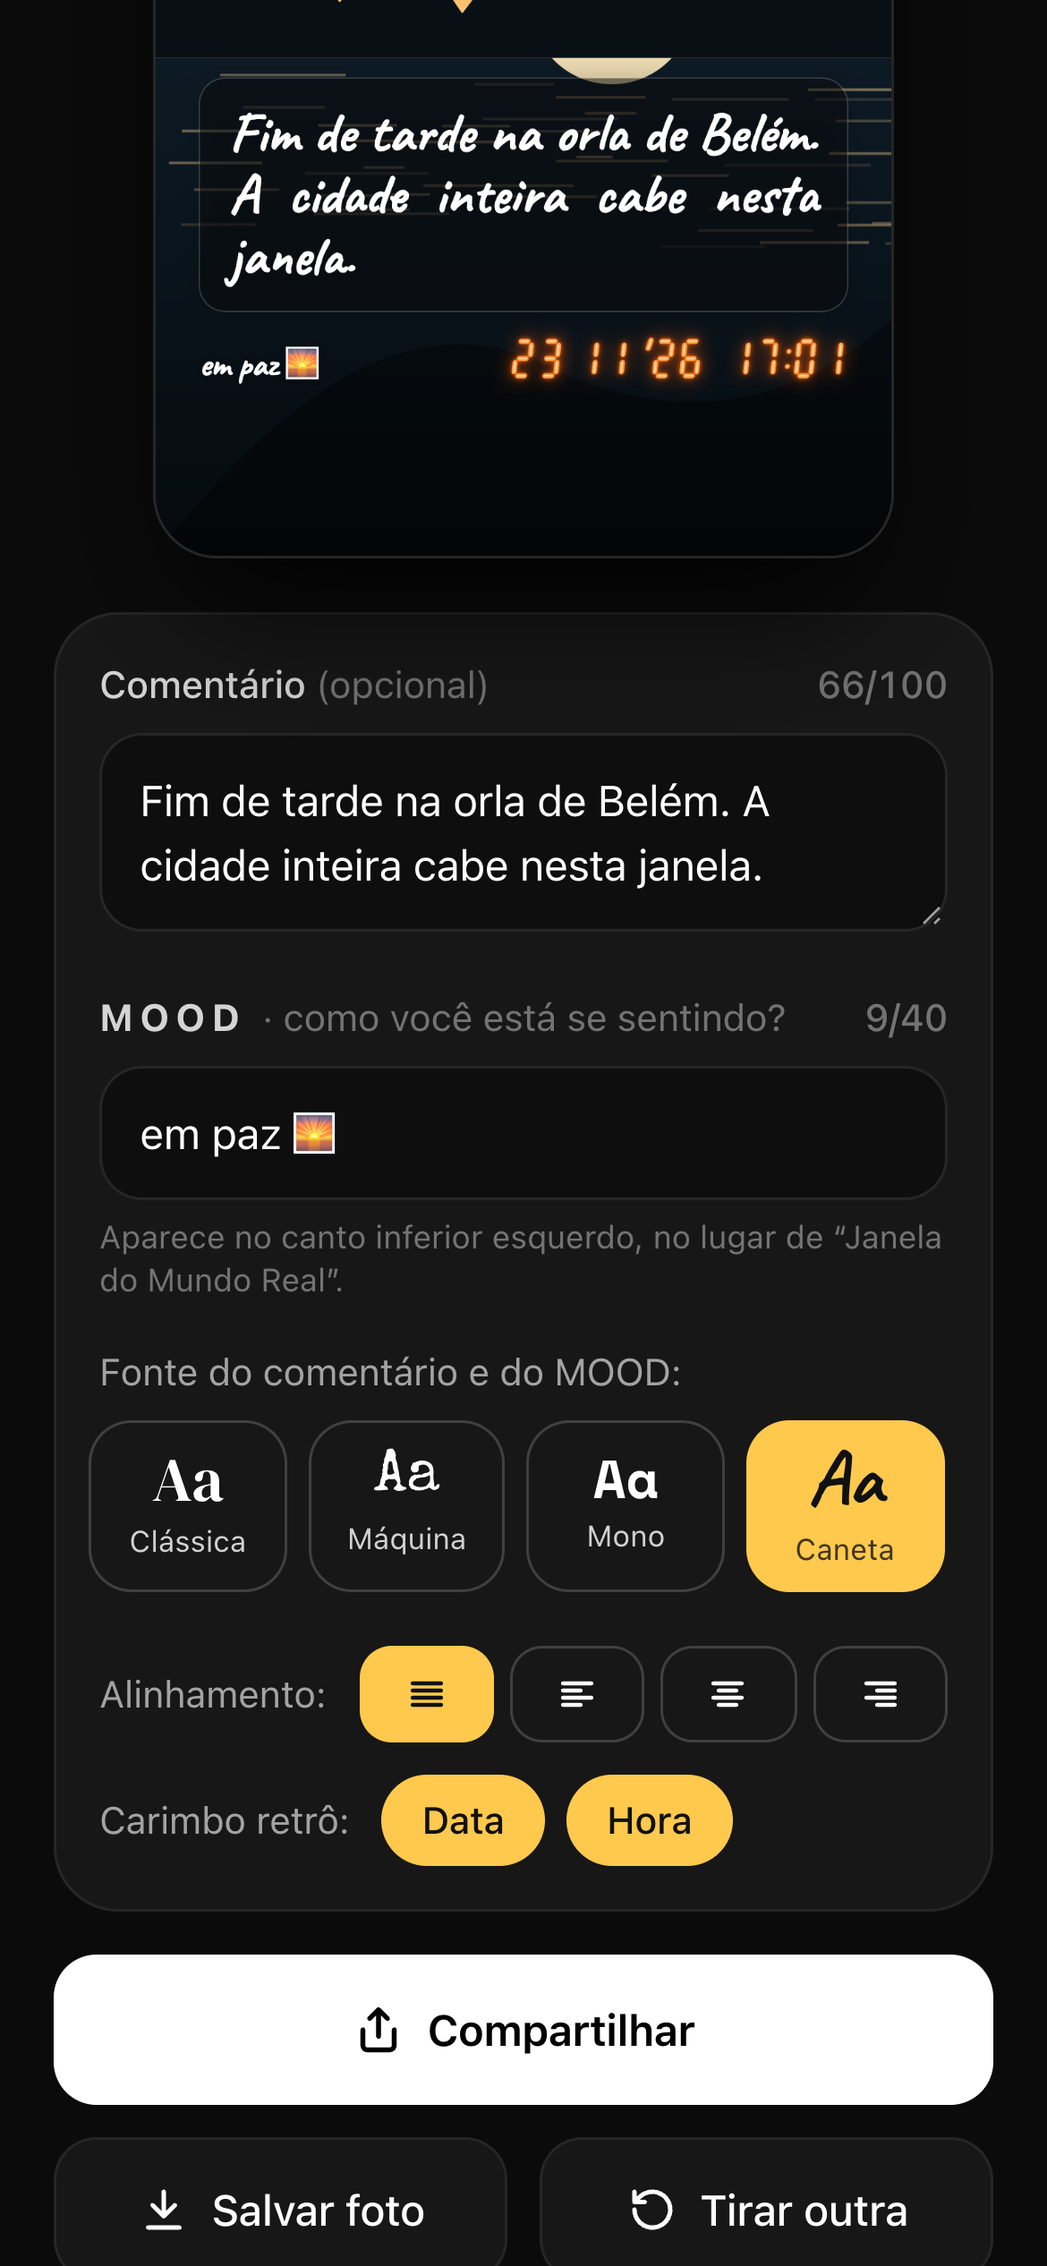
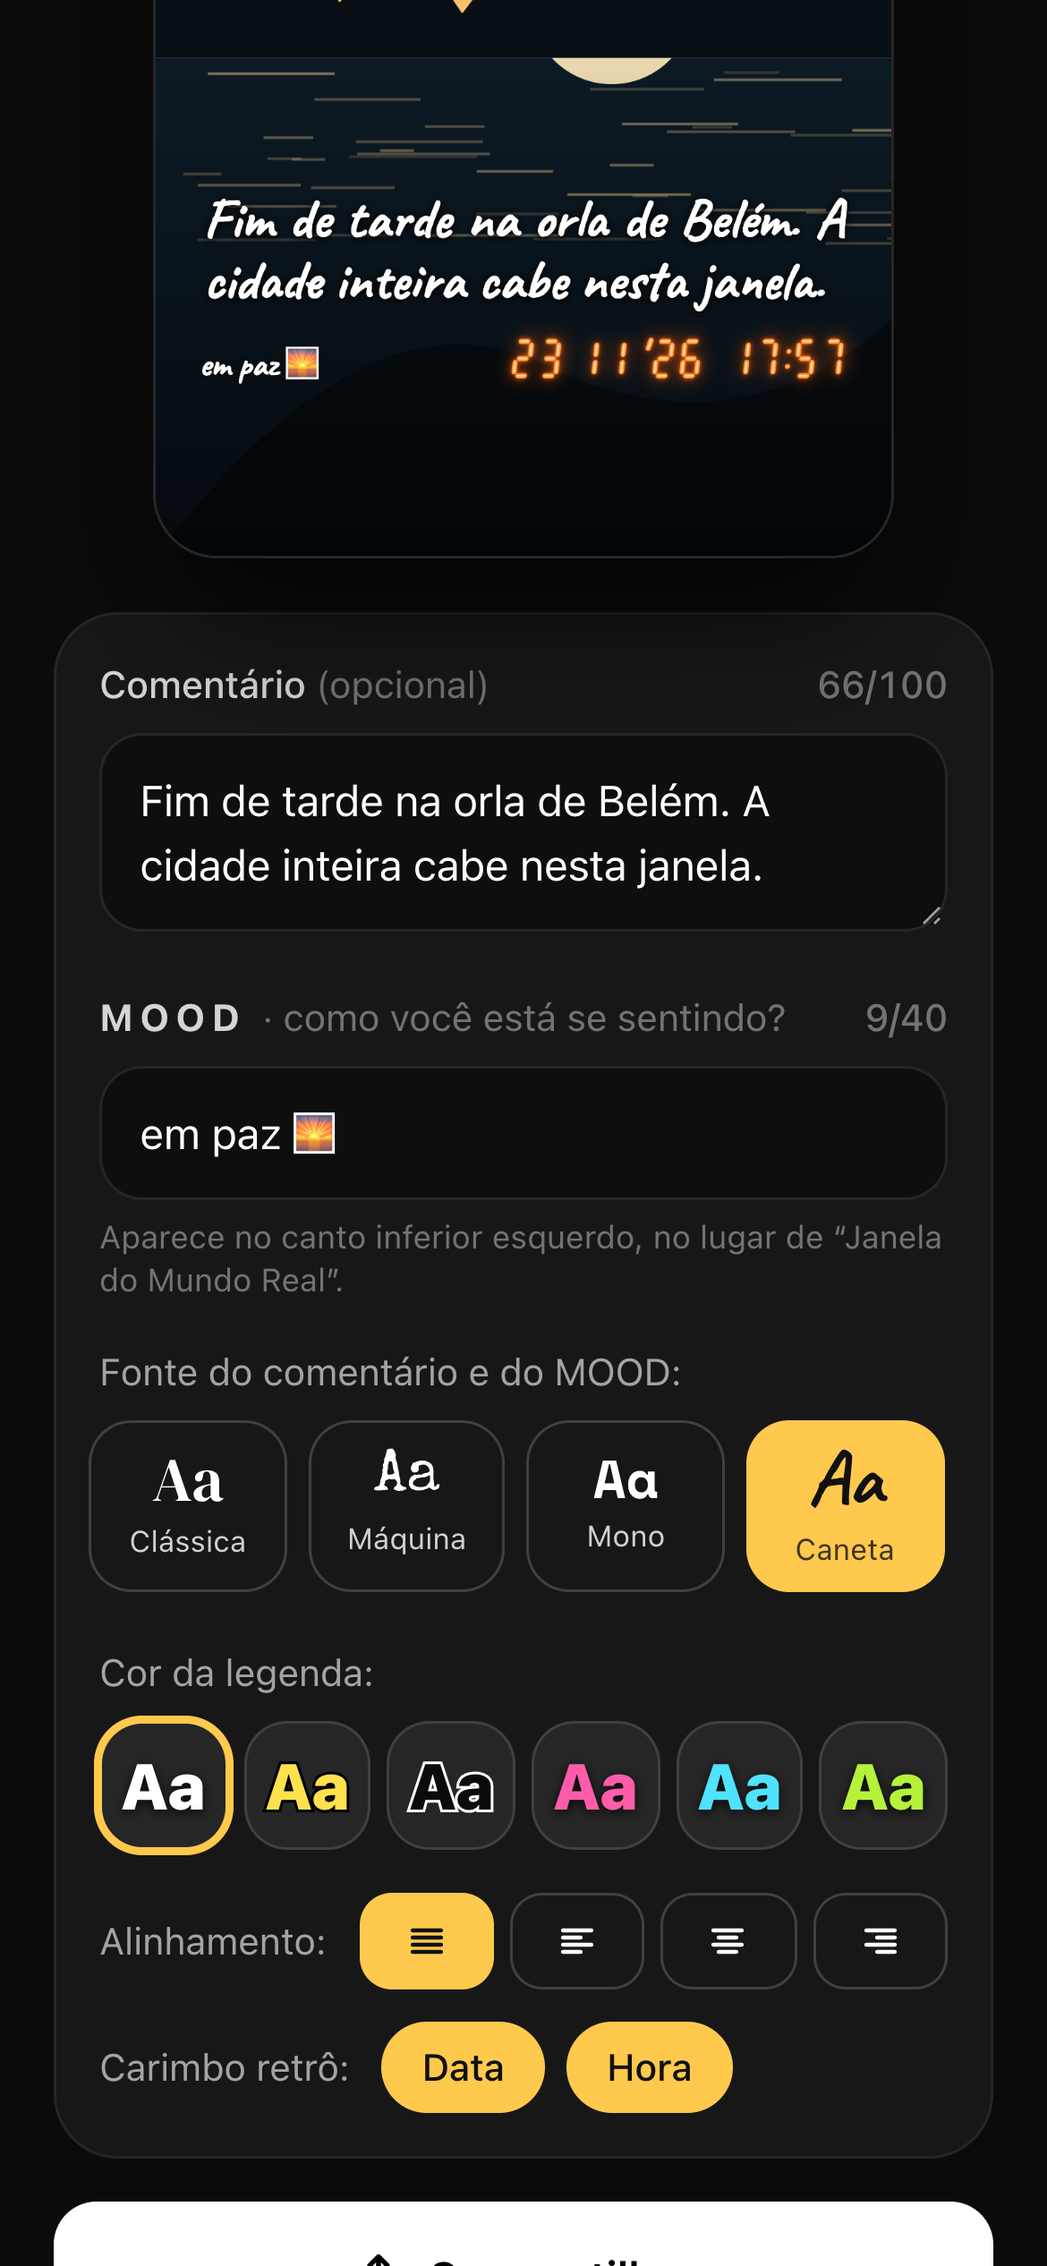
OKENA 1.5.0: legenda sem caixa em 6 cores e permissão da câmera única
- Legenda solta sobre a foto, 6 cores (inclui amarelo com borda preta)
- Troca de câmera abre a nova antes de parar a anterior (sem novo pedido
  de permissão no Safari); aviso só no primeiro uso ou após limpar dados
- Prints e documentação atualizados

Changed region(s): [[0.0308, 0.7176, 0.9538, 0.936], [0.1846, 0.0312, 0.8615, 0.156], [0.0308, 0.9672, 0.9538, 1.0]]

diff --git a/index.html b/index.html
@@ -80,6 +80,7 @@
     .shutter { box-shadow: 0 0 0 6px rgba(255,255,255,.25); }
     .shutter:active { transform: scale(.94); }
     .chip[aria-pressed="true"] { background: var(--amber); color: #111; border-color: var(--amber); }
+    .color-btn[aria-pressed="true"] { border-color: var(--amber); box-shadow: 0 0 0 2px var(--amber); }
     .mode-btn { color: rgba(255,255,255,.75); }
     .mode-btn[aria-pressed="true"] { background: #fff; color: #111; }
     #shutterDot { width: 3.6rem; height: 3.6rem; border-radius: 999px; }
@@ -179,7 +180,7 @@
         <img src="assets/logo-mark.svg" alt="" class="absolute left-3 top-3.5 h-5 w-5">
         <div class="absolute right-2.5 top-3.5 w-12 aspect-[3/4] rounded-lg border border-white/90 shadow-lg" style="background: linear-gradient(160deg,#c48b6a,#6b4a3a);"></div>
         <p id="mockHandle" class="absolute right-2.5 top-[5.6rem] max-w-[9rem] truncate text-right text-[8px] font-semibold"></p>
-        <div class="absolute left-3 right-3 bottom-12 rounded-lg bg-black/40 border border-white/10 p-1.5 text-[7px] leading-tight text-justify">Uma janela para o agora: o que eu vejo e quem está vendo.</div>
+        <div class="absolute left-3 right-3 bottom-12 text-[8px] font-bold leading-tight text-justify" style="color:#FFE14D;-webkit-text-stroke:.6px #000;paint-order:stroke fill">Uma janela para o agora: o que eu vejo e quem está vendo.</div>
         <p class="absolute right-3 bottom-5 retro text-[9px]">23 11 '26 14:32</p>
       </div>
 
@@ -317,6 +318,15 @@
         <p class="mt-1.5 text-xs text-neutral-500">Aparece no canto inferior esquerdo, no lugar de “Janela do Mundo Real”.</p>
         <p class="mt-4 text-sm text-neutral-400">Fonte do comentário e do MOOD:</p>
         <div id="fontPicker" class="mt-2 -mx-1 px-1 pb-1 flex gap-2 overflow-x-auto snap-x" role="group" aria-label="Fontes"></div>
+        <p class="mt-4 text-sm text-neutral-400">Cor da legenda:</p>
+        <div class="mt-2 grid grid-cols-6 gap-1.5" role="group" aria-label="Cor da legenda">
+          <button data-color="branco" class="color-btn grid place-items-center h-12 rounded-2xl border border-neutral-700 bg-neutral-800" aria-pressed="false" aria-label="Branco" title="Branco"><span class="text-2xl font-black leading-none" style="color:#FFFFFF;text-shadow:0 1px 4px rgba(0,0,0,.8);">Aa</span></button>
+          <button data-color="amarelo" class="color-btn grid place-items-center h-12 rounded-2xl border border-neutral-700 bg-neutral-800" aria-pressed="false" aria-label="Amarelo com borda preta" title="Amarelo com borda preta"><span class="text-2xl font-black leading-none" style="color:#FFE14D;-webkit-text-stroke:2px #000;paint-order:stroke fill;">Aa</span></button>
+          <button data-color="preto" class="color-btn grid place-items-center h-12 rounded-2xl border border-neutral-700 bg-neutral-800" aria-pressed="false" aria-label="Preto com borda branca" title="Preto com borda branca"><span class="text-2xl font-black leading-none" style="color:#0B0B0C;-webkit-text-stroke:2px #FFF;paint-order:stroke fill;">Aa</span></button>
+          <button data-color="rosa" class="color-btn grid place-items-center h-12 rounded-2xl border border-neutral-700 bg-neutral-800" aria-pressed="false" aria-label="Rosa" title="Rosa"><span class="text-2xl font-black leading-none" style="color:#FF5CAA;text-shadow:0 1px 4px rgba(0,0,0,.8);">Aa</span></button>
+          <button data-color="ciano" class="color-btn grid place-items-center h-12 rounded-2xl border border-neutral-700 bg-neutral-800" aria-pressed="false" aria-label="Ciano" title="Ciano"><span class="text-2xl font-black leading-none" style="color:#4FE3FF;text-shadow:0 1px 4px rgba(0,0,0,.8);">Aa</span></button>
+          <button data-color="verde" class="color-btn grid place-items-center h-12 rounded-2xl border border-neutral-700 bg-neutral-800" aria-pressed="false" aria-label="Verde-limão" title="Verde-limão"><span class="text-2xl font-black leading-none" style="color:#B6F23A;text-shadow:0 1px 4px rgba(0,0,0,.8);">Aa</span></button>
+        </div>
         <div class="mt-4 flex items-center gap-2">
           <span class="text-sm text-neutral-400 mr-1 shrink-0">Alinhamento:</span>
           <div class="grid grid-cols-4 gap-1.5 flex-1">
@@ -516,7 +526,7 @@
 (() => {
   'use strict';
 
-  const VERSION = '1.4.0';
+  const VERSION = '1.5.0';
   const KEY_PROFILE = 'okena:perfil';
   const KEY_PREFS = 'okena:prefs';
   const W = 1080, H = 1920, M = 64;           // canvas do Story e margem
@@ -542,6 +552,16 @@
     { id: 'feed',  name: 'Feed',  ratio: '4:5',  h: 1350, top: 64,  bottom: 72,  selfie: 300, commentMax: 260 }, // retrato do feed: 1080×1350
   ];
   const currentFormat = () => FORMATS.find((f) => f.id === state.prefs.format) || FORMATS[0];
+  /* 6 cores para a legenda (comentário) */
+  const COLORS = [
+    { id: 'branco',   name: 'Branco',                    fill: '#FFFFFF', stroke: '' },
+    { id: 'amarelo',  name: 'Amarelo com borda preta',   fill: '#FFE14D', stroke: '#000000' },
+    { id: 'preto',    name: 'Preto com borda branca',    fill: '#0B0B0C', stroke: '#FFFFFF' },
+    { id: 'rosa',     name: 'Rosa',                      fill: '#FF5CAA', stroke: '' },
+    { id: 'ciano',    name: 'Ciano',                     fill: '#4FE3FF', stroke: '' },
+    { id: 'verde',    name: 'Verde-limão',               fill: '#B6F23A', stroke: '' },
+  ];
+  const currentColor = () => COLORS.find((c) => c.id === state.prefs.color) || COLORS[0];
   const fontCSS = (f, px) => `${f.weight} ${Math.round(px)}px ${f.family}`;
   const currentFont = () => FONTS.find((f) => f.id === state.prefs.font) || FONTS[0];
   const loadedFonts = new Set(['padrao']);
@@ -559,7 +579,7 @@
   const vibrate = (p) => { try { navigator.vibrate && navigator.vibrate(p); } catch (_) {} };
 
   const state = {
-    screen: null, profile: null, prefs: { date: true, time: true, align: 'justify', font: 'padrao', format: 'story', mode: 'photo', camBack: '', camFront: '' }, mode: 'photo', clip: null, videoOut: null, overlay: null, recorder: null,
+    screen: null, profile: null, prefs: { date: true, time: true, align: 'justify', font: 'padrao', format: 'story', mode: 'photo', camBack: '', camFront: '', color: 'branco' }, mode: 'photo', clip: null, videoOut: null, overlay: null, recorder: null,
     stream: null, flow: 0, step: 0,
     back: null, front: null, capturedAt: null,
     blob: null, url: null, fileName: 'okena.png',
@@ -582,12 +602,12 @@
   }
 
   let toastTimer;
-  function toast(msg) {
+  function toast(msg, ms) {
     const t = $('toast');
     t.textContent = msg;
     t.classList.add('show');
     clearTimeout(toastTimer);
-    toastTimer = setTimeout(() => t.classList.remove('show'), 2800);
+    toastTimer = setTimeout(() => t.classList.remove('show'), ms || 2800);
   }
 
   /* ---------------- perfil ---------------- */
@@ -756,9 +776,40 @@
     $('video').srcObject = null;
   }
 
+  /* Permissão da câmera pedida uma vez só.
+     Ao trocar de câmera (vista → selfie, Foto ↔ Vídeo, outra lente), a câmera nova é aberta ANTES de desligar a
+     anterior: com uma captura ativa o navegador — em especial o Safari do iPhone — não mostra o pedido de novo.
+     Só se o aparelho não conseguir abrir duas câmeras juntas a anterior é desligada primeiro.
+     Depois de liberada, o navegador guarda a permissão para o site; ela só volta a ser pedida se o usuário
+     limpar os dados do navegador (ou revogar nas configurações). */
+  const KEY_CAM = 'okena:camera-ok', KEY_CAM_TIP = 'okena:camera-dica';
+  const camGranted = () => { try { return localStorage.getItem(KEY_CAM) === '1'; } catch (_) { return false; } };
+  function markCameraGranted() {
+    try {
+      const first = localStorage.getItem(KEY_CAM) !== '1';
+      localStorage.setItem(KEY_CAM, '1');
+      if (first && isIOS && localStorage.getItem(KEY_CAM_TIP) !== '1') {
+        localStorage.setItem(KEY_CAM_TIP, '1');
+        setTimeout(() => toast('Dica: para o iPhone não perguntar mais, toque em “aA” › Ajustes do Site › Câmera › Permitir', 8000), 1200);
+      }
+    } catch (_) {}
+  }
   async function openCamera(facing, withAudio) {
-    stopStream(); // alguns aparelhos não abrem duas câmeras ao mesmo tempo
-    if (DEMO) return demoStream(facing === 'user' ? 'front' : 'back');
+    if (DEMO) { stopStream(); return demoStream(facing === 'user' ? 'front' : 'back'); }
+    const prev = state.stream;
+    let s;
+    try {
+      s = await requestCamera(facing, withAudio);
+    } catch (e) {
+      if (!prev || !['NotReadableError', 'AbortError', 'TrackStartError', 'OverconstrainedError'].includes(e.name)) throw e;
+      stopStream(); // aparelho não abre duas câmeras juntas: libera a anterior e tenta de novo
+      s = await requestCamera(facing, withAudio);
+    }
+    if (prev && state.stream === prev) { prev.getTracks().forEach((t) => t.stop()); state.stream = null; }
+    markCameraGranted();
+    return s;
+  }
+  async function requestCamera(facing, withAudio) {
     if (!window.isSecureContext) throw camError('InsecureContext');
     if (!navigator.mediaDevices || !navigator.mediaDevices.getUserMedia) throw camError('Unsupported');
     const role = facing === 'user' ? 'camFront' : 'camBack';
@@ -774,7 +825,7 @@
         // a câmera escolhida sumiu (ex.: câmera externa desconectada): volta para a automática
         state.prefs[role] = ''; writeJSON(KEY_PREFS, state.prefs);
         toast('A câmera escolhida não está disponível — usando a automática');
-        return openCamera(facing, withAudio);
+        return requestCamera(facing, withAudio);
       }
       if (e.name === 'OverconstrainedError' || e.name === 'ConstraintNotSatisfiedError') return get(true, !!withAudio);
       if (withAudio && (e.name === 'NotAllowedError' || e.name === 'NotFoundError' || e.name === 'NotReadableError')) {
@@ -941,7 +992,7 @@
     $('comment').value = ''; $('mood').value = ''; updateCount();
     setCamUI('back');
     show('camera');
-    camLoading(true);
+    camLoading(true, camGranted() ? 'Abrindo a câmera…' : 'Toque em “Permitir” para liberar a câmera — o pedido aparece só desta vez');
     try {
       const s = await openCamera('environment', state.mode === 'video');
       if (token !== state.flow) { s.getTracks().forEach((t) => t.stop()); return; }
@@ -1218,19 +1269,20 @@
     }
     return best;
   }
-  function drawAligned(x, lines, left, top, maxW, lh, size, align) {
+  function drawAligned(x, lines, left, top, maxW, lh, size, align, paint) {
+    paint = paint || ((t, a, b) => x.fillText(t, a, b));
     x.textBaseline = 'alphabetic';
     lines.forEach((words, i) => {
       const y = top + (i + 1) * lh - (lh - size) / 2 - size * 0.18;
       const line = words.join(' ');
-      if (align === 'center') { x.textAlign = 'center'; x.fillText(line, left + maxW / 2, y); x.textAlign = 'left'; return; }
-      if (align === 'right') { x.textAlign = 'right'; x.fillText(line, left + maxW, y); x.textAlign = 'left'; return; }
+      if (align === 'center') { x.textAlign = 'center'; paint(line, left + maxW / 2, y); x.textAlign = 'left'; return; }
+      if (align === 'right') { x.textAlign = 'right'; paint(line, left + maxW, y); x.textAlign = 'left'; return; }
       const last = i === lines.length - 1;
-      if (align === 'left' || last || words.length === 1) { x.fillText(line, left, y); return; }
+      if (align === 'left' || last || words.length === 1) { paint(line, left, y); return; }
       const total = words.reduce((s, w) => s + x.measureText(w).width, 0);
       const gap = (maxW - total) / (words.length - 1);
       let cx = left;
-      for (const w of words) { x.fillText(w, cx, y); cx += x.measureText(w).width + gap; }
+      for (const w of words) { paint(w, cx, y); cx += x.measureText(w).width + gap; }
     });
   }
 
@@ -1329,18 +1381,27 @@
     // 5) caixa de comentário (até 100 caracteres, alinhamento escolhido, fonte adaptativa)
     const text = $('comment').value.trim().replace(/\s+/g, ' ').slice(0, 100);
     if (text) {
-      const bw = W - M * 2, px = 44, py = 36;
+      // legenda solta, sem caixa de fundo: cor escolhida + contorno ou sombra para legibilidade
+      const C = currentColor();
+      const bw = W - M * 2, px = 6;
       const L = layoutComment(x, text, bw - px * 2, F.commentMax, fontNow);
-      const bh = L.lines.length * L.lh + py * 2;
-      const by = bottomLimit - bh;
+      const by = bottomLimit - L.lines.length * L.lh;
+      const args = [x, L.lines, M + px, by, bw - px * 2, L.lh, L.size, state.prefs.align];
       x.save();
-      x.shadowColor = 'rgba(0,0,0,.35)'; x.shadowBlur = 30;
-      rr(x, M, by, bw, bh, 38); x.fillStyle = 'rgba(10,10,12,.48)'; x.fill();
-      x.shadowBlur = 0;
-      x.lineWidth = 2; x.strokeStyle = 'rgba(255,255,255,.18)'; x.stroke();
       x.font = fontCSS(fontNow, L.size);
-      x.fillStyle = '#fff';
-      drawAligned(x, L.lines, M + px, by + py, bw - px * 2, L.lh, L.size, state.prefs.align);
+      x.lineJoin = 'round'; x.miterLimit = 2;
+      if (C.stroke) {
+        x.lineWidth = Math.max(4, Math.round(L.size * 0.16));
+        x.strokeStyle = C.stroke;
+        x.shadowColor = 'rgba(0,0,0,.35)'; x.shadowBlur = 10;
+        drawAligned(...args, (t, a, b) => x.strokeText(t, a, b));
+        x.shadowColor = 'transparent';
+      } else {
+        x.shadowColor = 'rgba(0,0,0,.75)'; x.shadowBlur = 18; x.shadowOffsetY = 2;
+      }
+      x.fillStyle = C.fill;
+      drawAligned(...args);
+      if (!C.stroke) { x.shadowBlur = 6; drawAligned(...args); } // segunda passada reforça a sombra sem caixa
       x.restore();
     }
 
@@ -1567,7 +1628,14 @@
     document.querySelectorAll('[data-align]').forEach((b) => b.setAttribute('aria-pressed', String(b.dataset.align === state.prefs.align)));
     document.querySelectorAll('[data-font]').forEach((b) => b.setAttribute('aria-pressed', String(b.dataset.font === state.prefs.font)));
     document.querySelectorAll('[data-format]').forEach((b) => b.setAttribute('aria-pressed', String(b.dataset.format === state.prefs.format)));
+    document.querySelectorAll('[data-color]').forEach((b) => b.setAttribute('aria-pressed', String(b.dataset.color === state.prefs.color)));
   }
+  document.querySelectorAll('[data-color]').forEach((b) => b.addEventListener('click', () => {
+    state.prefs.color = b.dataset.color;
+    writeJSON(KEY_PREFS, state.prefs);
+    syncChips();
+    render();
+  }));
   document.querySelectorAll('[data-format]').forEach((b) => b.addEventListener('click', () => {
     if (state.prefs.format === b.dataset.format) return;
     state.prefs.format = b.dataset.format;
@@ -1745,7 +1813,7 @@
   // início
   $('appVersion').textContent = VERSION;
   const prefs = readJSON(KEY_PREFS);
-  if (prefs && typeof prefs === 'object') state.prefs = { date: prefs.date !== false, time: prefs.time !== false, align: ['justify', 'left', 'center', 'right'].includes(prefs.align) ? prefs.align : 'justify', font: FONTS.some((f) => f.id === prefs.font) ? prefs.font : 'padrao', format: prefs.format === 'feed' ? 'feed' : 'story', mode: prefs.mode === 'video' ? 'video' : 'photo', camBack: typeof prefs.camBack === 'string' ? prefs.camBack : '', camFront: typeof prefs.camFront === 'string' ? prefs.camFront : '' };
+  if (prefs && typeof prefs === 'object') state.prefs = { date: prefs.date !== false, time: prefs.time !== false, align: ['justify', 'left', 'center', 'right'].includes(prefs.align) ? prefs.align : 'justify', font: FONTS.some((f) => f.id === prefs.font) ? prefs.font : 'padrao', format: prefs.format === 'feed' ? 'feed' : 'story', mode: prefs.mode === 'video' ? 'video' : 'photo', camBack: typeof prefs.camBack === 'string' ? prefs.camBack : '', camFront: typeof prefs.camFront === 'string' ? prefs.camFront : '', color: COLORS.some((c) => c.id === prefs.color) ? prefs.color : 'branco' };
   buildFontPicker();
   syncChips();
   state.profile = loadProfile();

diff --git a/sw.js b/sw.js
@@ -1,5 +1,5 @@
 /* OKENA — service worker: funciona offline após a primeira visita. */
-const CACHE = 'okena-v1.4.0';
+const CACHE = 'okena-v1.5.0';
 const CORE = [
   './', './index.html', './manifest.webmanifest',
   './assets/logo.svg', './assets/logo-mark.svg', './assets/logo-wordmark.svg', './assets/favicon.svg',

diff --git a/README.md b/README.md
@@ -38,8 +38,9 @@ A imagem fica pronta para o Instagram, o WhatsApp ou a galeria, com:
 - a selfie em moldura **3:4** no canto superior direito, com borda branca e sombra;
 - o seu **@** logo abaixo da selfie e, se quiser, a sua **localização** com um pin vermelho (até 20 caracteres,
   digitada por você; o GPS não é usado);
-- um **comentário de até 100 caracteres**, com fonte que se ajusta ao tamanho do texto e alinhamento
-  **justificado, à esquerda, centralizado ou à direita**;
+- uma **legenda de até 100 caracteres**, solta sobre a foto (sem caixa de fundo), em **6 cores** (branco,
+  amarelo com borda preta, preto com borda branca, rosa, ciano e verde-limão), com fonte que se ajusta ao
+  tamanho do texto e alinhamento **justificado, à esquerda, centralizado ou à direita**;
 - **10 fontes** para o comentário e o MOOD (Padrão, Elegante, Clássica, Máquina, Mono, Caneta, Pacifico, Pôster, Marcador e Retrô);
 - o seu **MOOD** (como você está se sentindo, até 40 caracteres) no canto inferior esquerdo;
 - **data e/ou hora** no estilo do carimbo das câmeras de filme (display de LED laranja);
@@ -57,6 +58,10 @@ teleobjetiva, externa…) e qual faz a selfie.
 <div align="center">
   <img src="docs/screenshots/feed-exemplo.png" width="340" alt="Exemplo no formato Feed 4:5 retrato">
   <br><sub>Formato Feed (4:5, retrato)</sub>
+</div>
+
+<div align="center">
+  <img src="docs/screenshots/cores-legenda.png" width="760" alt="6 cores de legenda">
 </div>
 
 <div align="center">
@@ -84,9 +89,9 @@ Canvas API.
 |:-:|:-:|:-:|:-:|
 | <img src="docs/screenshots/12-modo-video.png" width="190"> | <img src="docs/screenshots/13-gravando.png" width="190"> | <img src="docs/screenshots/14-video-previa.png" width="190"> | <img src="docs/screenshots/16-video-pronto.png" width="190"> |
 
-| Localização | Escolher câmeras | Sem carimbo |
-|:-:|:-:|:-:|
-| <img src="docs/screenshots/17-local.png" width="190"> | <img src="docs/screenshots/18-cameras.png" width="190"> | <img src="docs/screenshots/story-sem-carimbo.png" width="190"> |
+| Localização | Escolher câmeras | Cores da legenda | Legenda amarela |
+|:-:|:-:|:-:|:-:|
+| <img src="docs/screenshots/17-local.png" width="190"> | <img src="docs/screenshots/18-cameras.png" width="190"> | <img src="docs/screenshots/19-cores-legenda.png" width="190"> | <img src="docs/screenshots/story-legenda-amarela.png" width="190"> |
 
 | Feed 4:5 | Sobre | Instalar no dispositivo |
 |:-:|:-:|:-:|

diff --git a/CHANGELOG.md b/CHANGELOG.md
@@ -1,5 +1,12 @@
 # Changelog
 
+## [1.5.0] — 2026-11-23
+
+- Legenda sem caixa preta de fundo: só o texto, em **6 cores** (branco, amarelo com borda preta, preto com borda
+  branca, rosa, ciano, verde-limão).
+- Permissão da câmera pedida **uma vez só**: a troca entre câmeras abre a nova antes de desligar a anterior, e o
+  aviso de permissão só aparece de novo se os dados do navegador forem limpos. Dica única para o iPhone.
+
 ## [1.4.0] — 2026-11-23
 
 - **Localização estática** (até 20 caracteres, digitada; sem GPS): nas Configurações e na câmera, antes de
